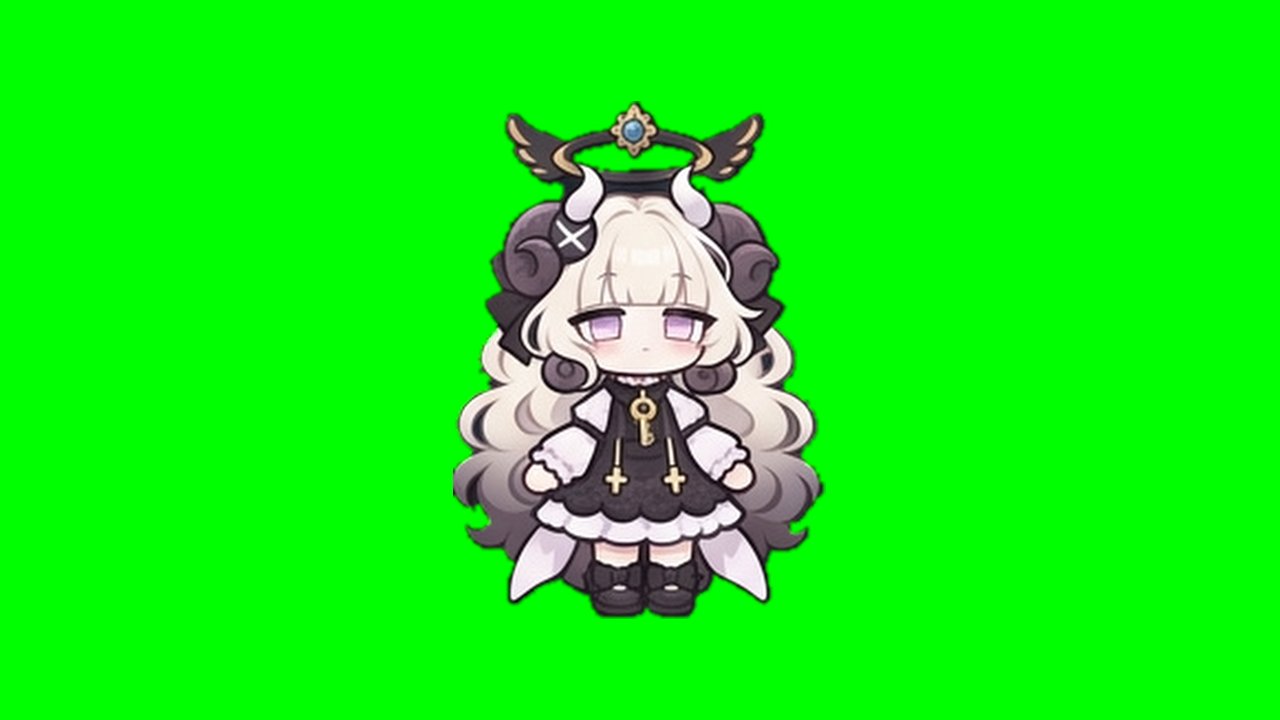
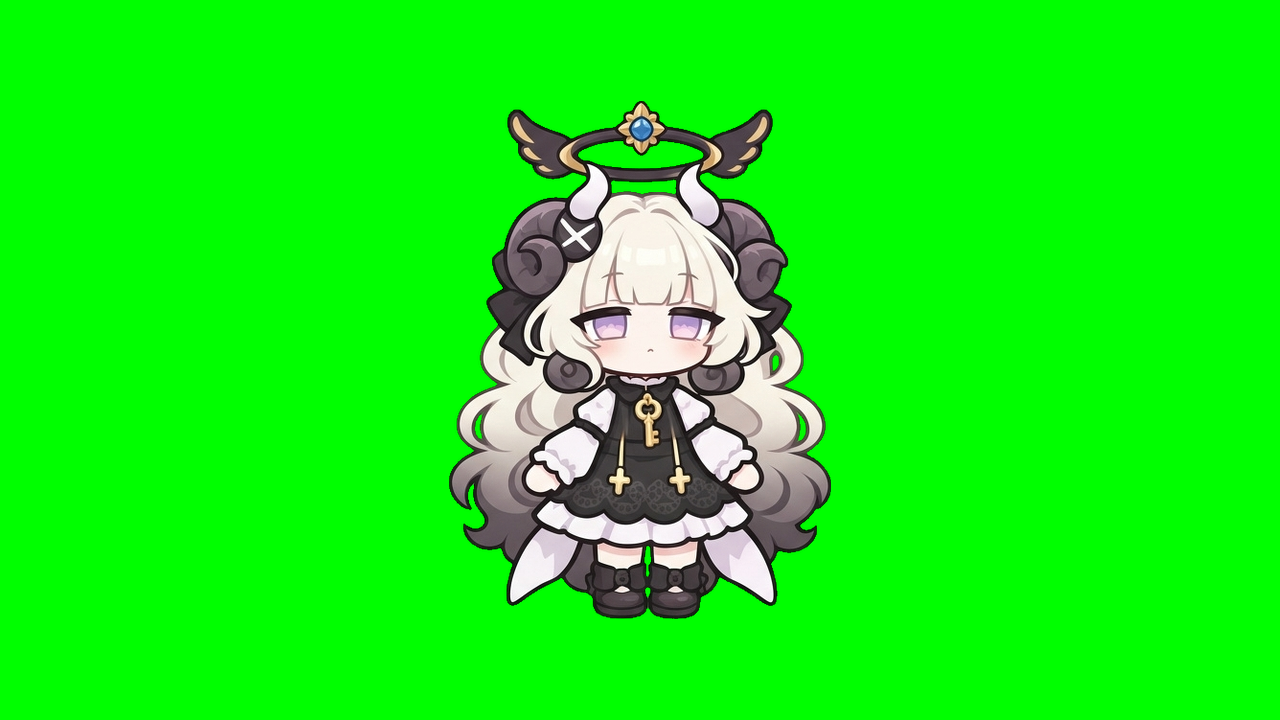
docs: 다래 키 비교샷으로 시작 그림 확정, 키 맞춘 시작 그림 방법 문서화
Claude-Session: https://claude.ai/code/session_012DFmYRntmyYRtXq4JsKkmi

Changed region(s): [[0.3438, 0.1222, 0.6562, 0.8861]]

diff --git a/docs/status.md b/docs/status.md
@@ -5342,7 +5342,7 @@
 - **다래 서 있기 영상 받음(사용자 11-27 '살짝 뛰어오르는데 오히려 나쁘지 않을 수도')**: `다래/영상/0_서있기.gif`(30장·0.1초). 6~13번에 발이 최대 17px(키 3.7%) 떴다 내려옴, 끝→처음 이음 자연스러움. 두 판 만듦: `영상/앱크기/stand_hop`(그대로)·`stand_pin`(발 붙임 — 숨쉬기만). 시작 그림 `다래/영상/0_서있기_시작.png`. 비교 GIF `다래/다래_영상서있기_확인.gif`.
 - **비율 통일(사용자 11-27 '마스터 비율이 Starline과 다 다름 — 작업 전에 비율부터 정해줘')**: 기준 Starline(정수리~턱 : 턱~발 ≈ 1:2.7). 첫 마스터 다래 1:1.7·레나 1:1.4·이안 1:1.3·아리아 1:0.8(지금 앱도 대체로 같음). → 4명 마스터를 비율만 맞춰 다시(요청문 `영상모션_요청문.md` '0. 비율 먼저'), 다래 서 있기 영상은 새 마스터로 다시. 아리아 머리색(금발 vs 앱 복숭아빛)은 사용자 결정 대기. → 사용자 '키가 똑같으면 재미없음 — 키 Starline > 이안 > 레나 > 아리아 > 다래': 머리 크기 같게·몸 길이로 키 차이. 목표 머리:몸 / 키 — Starline 1:2.7/100, 이안 1:2.4/92, 레나 1:2.1/84, 아리아 1:1.8/76, 다래 1:1.6/70(요청문 표). 사용자 '배율만 줄이면 머리도 작아짐' → 앱 크기 규칙: 키 282 통일·캐릭터별 그리기 배율(Starline 1.15·레나 0.95) 대신 머리 폭을 Starline 앱 머리 폭에 맞추고 그리기 배율 다섯 명 같게(키 차이는 그림의 몸 길이로) — DEV 넘길 때 적음.
 - **다래 비율 마스터 받음(사용자 11-27)**: `다래/다래_마스터레퍼런스_비율.png` — 첫 마스터와 사실상 같음(픽셀 차 1.0/255, Gemini가 비율 지시로 안 바꿈). 머리(눈 간격) 맞춰 잰 키: 다래 약 75(목표 70 ±5 → 그대로 통과), 레나 69·이안 56·아리아 53 → 셋은 '머리 그대로, 몸통·다리 약 1.3/1.9/1.7배 길게'로 요청(요청문에 적음). → **정정(같은 날)**: 앞 측정(다래 75 등)은 머리 크기 기준이 틀렸음. 얼굴 크기(눈 간격)로 Starline 옆에 세워 다시 잼: 레나 92·다래 89·이안 84·아리아 73 → 목표까지 몸만 이안 ×1.2·레나 ×0.85·아리아 ×1.1·다래 ×0.65. 미리보기 `assets/키_비교_지금vs목표.png`.
-- **캐릭터 키 설정(사용자 11-27 'Starline 180·다래 150처럼 키를 적고 작은 캐릭터라고 넣어 시도')**: Starline 180·이안 172·레나 164·아리아 156·다래 150cm(그림 목표 100·92·84·76·70, 머리 크기 같음). 다시 그리기 요청문(키·체형 말·Starline 마스터 키 기준 첨부, 2~3번 뽑아 고르기) `영상모션_요청문.md` '캐릭터 키 설정'·'다시 그리기 요청문'. → 다래 상반신+Starline 마스터 시험(`다래/다래_마스터레퍼런스_상반신시험.png`): 얼굴 크기 맞춰 Starline 옆에 세우니 키 104%(목표 70, 이전 마스터 87%보다 더 큼), 머리색 은빛·선 얇고 섬세해 그림체 다름(사용자 '그림체가 너무 다름') → 버림. 비교 `다래/다래_Starline_나란히.png`. → **나란히 선 그림 시험(`다래/다래_Starline_키비교샷.png`)**: 한 그림에 같이 세우니 키 차이가 지켜짐 — 다래 = Starline의 약 74%(장식 포함·정수리 기준 모두, 목표 70 ±5 안), 그림체도 같음. 사용자 '설정샷으로는 쓸 수 있지만 이걸로 마스터는 못 만들 듯'. 다음 시험: 이 그림을 다래 디자인·체형 기준으로, Starline 마스터를 형식 기준으로 첨부해 다래 마스터 시트(베낄 시트가 없어 체형이 이 그림을 따를 것). → **설정샷 기준 다래 마스터(`다래/다래_마스터레퍼런스_설정샷기준.png`)**: 디자인·그림체 같음, 다리가 길어지고 스타킹이 보임, 원피스가 조금 초록빛 도는 검정. 얼굴 크기 맞춰 실제 Starline 마스터 옆에 세우면 키 91%(첫 마스터 87%) — 설정샷 속 Starline이 실제보다 몸이 길게 그려져 있어서(설정샷의 74%는 그 Starline 기준) 실제 Starline 기준으론 작아지지 않음. 비교 `다래/다래_Starline_나란히2.png`.
+- **캐릭터 키 설정(사용자 11-27 'Starline 180·다래 150처럼 키를 적고 작은 캐릭터라고 넣어 시도')**: Starline 180·이안 172·레나 164·아리아 156·다래 150cm(그림 목표 100·92·84·76·70, 머리 크기 같음). 다시 그리기 요청문(키·체형 말·Starline 마스터 키 기준 첨부, 2~3번 뽑아 고르기) `영상모션_요청문.md` '캐릭터 키 설정'·'다시 그리기 요청문'. → 다래 상반신+Starline 마스터 시험(`다래/다래_마스터레퍼런스_상반신시험.png`): 얼굴 크기 맞춰 Starline 옆에 세우니 키 104%(목표 70, 이전 마스터 87%보다 더 큼), 머리색 은빛·선 얇고 섬세해 그림체 다름(사용자 '그림체가 너무 다름') → 버림. 비교 `다래/다래_Starline_나란히.png`. → **나란히 선 그림 시험(`다래/다래_Starline_키비교샷.png`)**: 한 그림에 같이 세우니 키 차이가 지켜짐 — 다래 = Starline의 약 74%(장식 포함·정수리 기준 모두, 목표 70 ±5 안), 그림체도 같음. 사용자 '설정샷으로는 쓸 수 있지만 이걸로 마스터는 못 만들 듯'. 다음 시험: 이 그림을 다래 디자인·체형 기준으로, Starline 마스터를 형식 기준으로 첨부해 다래 마스터 시트(베낄 시트가 없어 체형이 이 그림을 따를 것). → **설정샷 기준 다래 마스터(`다래/다래_마스터레퍼런스_설정샷기준.png`)**: 디자인·그림체 같음, 다리가 길어지고 스타킹이 보임, 원피스가 조금 초록빛 도는 검정. 얼굴 크기 맞춰 실제 Starline 마스터 옆에 세우면 키 91%(첫 마스터 87%) — 설정샷 속 Starline이 실제보다 몸이 길게 그려져 있어서(설정샷의 74%는 그 Starline 기준) 실제 Starline 기준으론 작아지지 않음. 비교 `다래/다래_Starline_나란히2.png`. → **확정(사용자 11-27 '이 정도에서 타협 — 다래는 원래 귀엽게, 비율·키만 맞으면')**: 키 비교샷 2(`다래/다래_Starline_키비교샷2.png`, Starline 기준 그림에 다래를 그려 넣음) — 다래가 더 꼬마 체형(머리:몸 약 1:1.5, 첫 마스터 약 1:2), Starline 턱~눈 높이. 이 그림의 다래를 잘라 **다래 시작 그림 교체** `다래/다래_영상시작_정면.png`. 옆모습(걷기용)은 이 정면을 첨부해 이미지 편집으로 만들 것. 다른 캐릭터도 같은 방식(Starline 기준 그림 + 그 캐릭터 그려 넣기 → 잘라 시작 그림).
 - **아리아 티셔츠 전체 다시 그림·물주기 시작 장·레나 갇힌 틈 정정 DEV 반영(11-26)**: tshirt OVERRIDES '다시_앱크기' 81장 통째(옛 79칸 템플릿·걷기_v2·끌기/착지 덮어쓰기 없앰, 통째 다시 그림은 템플릿을 자르지 않고 기본 프레임이 다 있는지만 확인 — 오프숄더 결과 해시 같음), ~~motions intro~~ → 정정(기획 11-26 사용자 '들었을 때만 조금 더'): intro 없앰, 아리아 물주기 순서 그대로 + 6번만 hold 1.2초(모든 옷), 레나 red_dress 정정본 다시 빌드, 여름 드레스 쓰다듬기 6장은 새 티셔츠 띠 폭 기준으로 다시 맞춰짐. 노트 2줄.
 - **아리아 여름 드레스 전체 다시 그림 DEV 반영(11-26, 마지막 그림)**: OVERRIDES '다시_앱크기' 81장 통째 + harmonize(stand_0), REF_FIT(쓰다듬기 티셔츠 띠 폭) 없앰. 테스트: 모자 옷은 머리 실루엣 대신 '서 있기 대비 키 비율 = 기본 같은 장 ±6%'(실측 최대 1.6%) + 걷기 같은 장 비율 2% 안·중앙값 1.031 vs 기본 1.032, 띠 폭 테스트·HAT 중앙값 없앰. 노트 1줄.
 - **아리아 화관 쓴 장 유지 DEV 반영(사용자 제보 11-26, 후보 #342 뒤, QA 전달)**: motion_wreath hold 5번 2.0초(모든 옷), 테스트 test_wreath_worn_frame_holds, 노트 1줄. 리본(말하기) 건은 QA가 사용자 확인 중.

diff --git a/docs/characters/영상모션_요청문.md b/docs/characters/영상모션_요청문.md
@@ -71,6 +71,24 @@ Starline에서 통과한 방식(0.59.0). 캐릭터 이름·동작 줄만 바꿔 
 
 - 받으면 기획이 Starline과 **머리 크기를 맞춰** 나란히 세워 키 비율·머리:몸을 잼(표 ±5 안이면 통과), 디자인·색이 첫 마스터와 같은지 확인. 통과한 마스터로만 시작 그림·영상.
 
+### 키 맞춘 시작 그림 만들기 (11-27 확정 — 다래로 통과)
+- 비율 숫자·키 cm로 마스터를 다시 그리게 하면 Gemini가 체형을 거의 안 바꿈. **Starline 기준 그림에 그 캐릭터를 그려 넣게 하면** 키 차이가 지켜짐.
+- 첨부 ① `Starline/Starline_키기준_오른쪽.png`(편집할 그림) ② 그 캐릭터 마스터.
+```
+첫 번째 첨부 그림을 편집해줘. 오른쪽 캐릭터는 그대로 두고(다시 그리거나 크기·위치·모양을 바꾸지 마), 왼쪽 빈 곳에 두 번째 첨부의 캐릭터(FRONT 모습)를 그려 넣어줘.
+- 왼쪽 캐릭터는 <설명>(키 <키>, 오른쪽은 180cm). 머리 꼭대기(장식 빼고)가 오른쪽 캐릭터의 <높이>에 오게.
+- 머리(얼굴) 크기는 오른쪽 캐릭터와 같게 — 키 차이는 몸통과 다리 길이로.
+- 발끝은 오른쪽 캐릭터와 같은 바닥선, 정면을 보고 차렷 자세, 서로 겹치지 않게.
+- 디자인·그림체·색은 두 번째 첨부 그대로, 배경은 초록 단색 그대로.
+```
+| 캐릭터 | `<설명>` | `<키>` | `<높이>` |
+|---|---|---|---|
+| 다래 | 다섯 친구 중 가장 작은 꼬마 | 150cm | 턱 높이 — **완료**(`다래/다래_Starline_키비교샷2.png`) |
+| 아리아 | 작고 아담한 소녀 | 156cm | 눈 높이 |
+| 레나 | 보통 키의 마녀 소녀 | 164cm | 이마 높이 |
+| 이안 | 키 큰 청년 | 172cm | 머리 꼭대기(귀 아래)보다 조금 낮게 |
+- 받으면 기획이 그 캐릭터를 잘라 `<이름>/<이름>_영상시작_정면.png`(초록 배경)로. 옆모습(걷기용)은 이 정면을 첨부해 '같은 캐릭터의 오른쪽을 보는 옆모습 전신, 체형 그대로'로 이미지 편집.
+
 ## 1. 마스터 레퍼런스 (그림 생성 — 첨부 2장)
 - 첨부 ① 그 캐릭터 4면도: 다래 `다래/SD/다래 SD 캐릭터 4면도 모델 시트.png` · 레나 `레나/SD/레나_4면도.png` · 이안 `이안/SD/남성 치비 캐릭터 4면도 모델 시트.png` · 아리아 `아리아/SD/귀여운 숲속 소녀 캐릭터 턴어라운드.png`
 - 첨부 ② `Starline/Starline_마스터레퍼런스.png`
